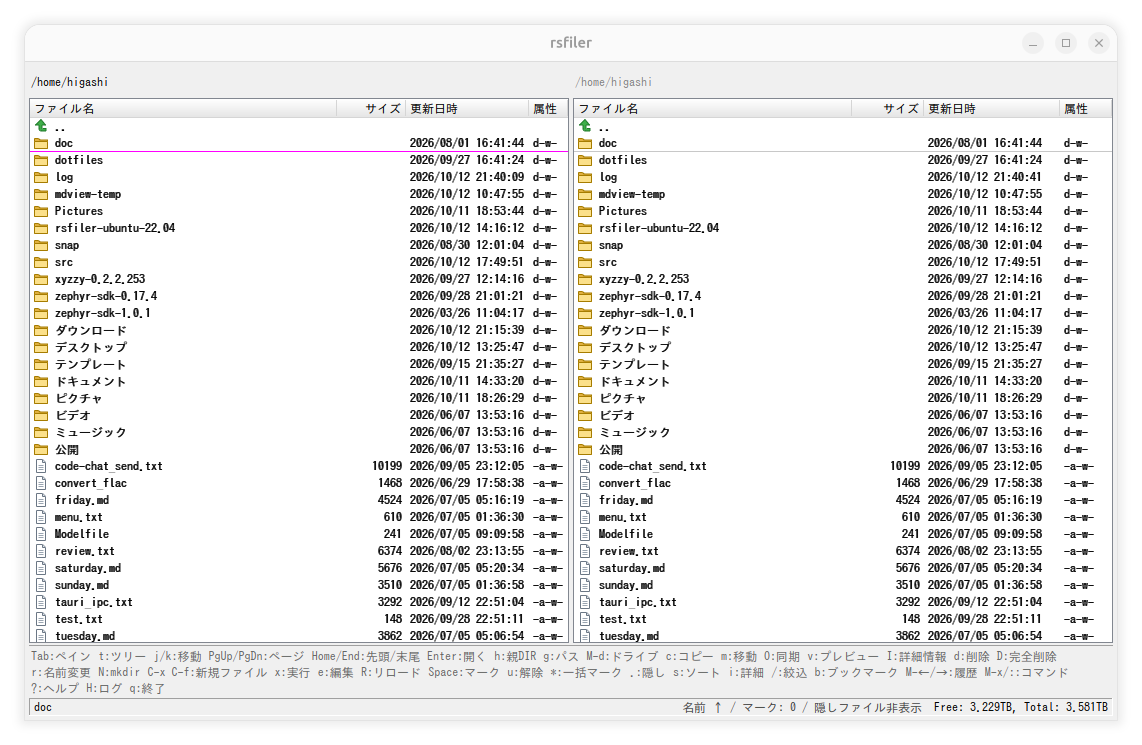
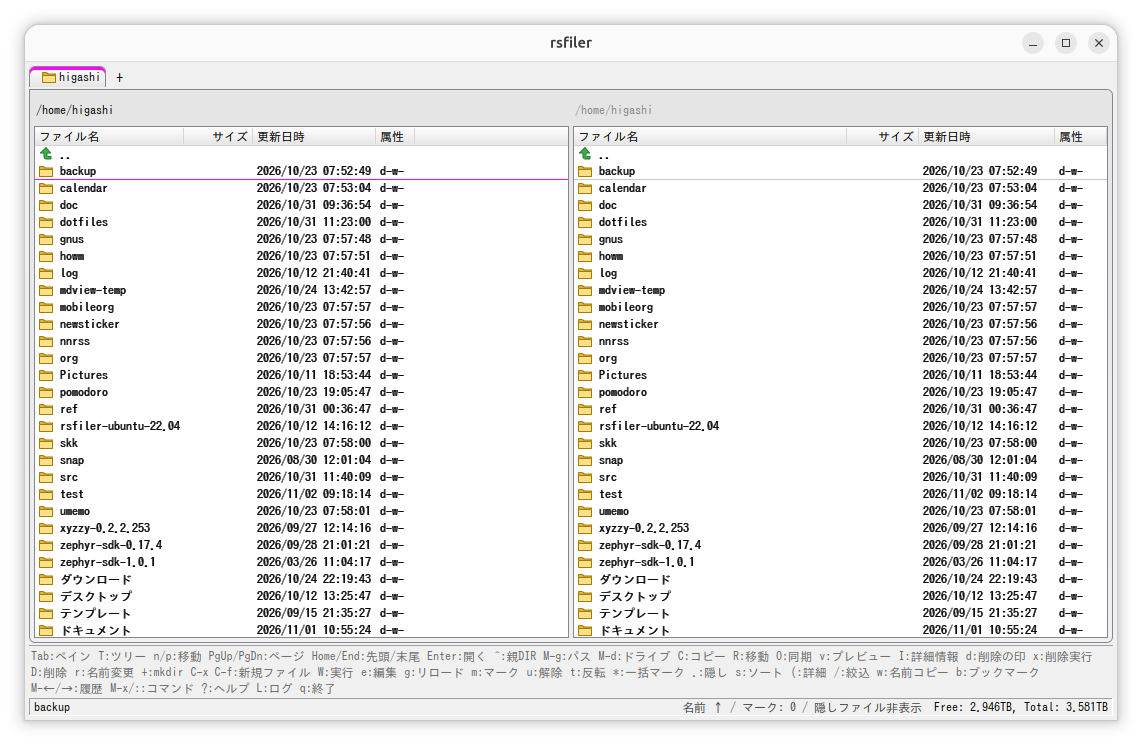
feat: Show the source and destination in the operation log
- Add the source paths (up to 3, then the rest as a count) and the destination to the copy, move, and delete messages and the failure log
- Update the screenshot in README.md

Changed region(s): [[0.0, 0.0617, 0.9807, 0.957], [0.9501, 0.0309, 0.9807, 0.0617], [0.4904, 0.0309, 0.521, 0.0617]]

diff --git a/tests/App.test.tsx b/tests/App.test.tsx
@@ -2541,7 +2541,11 @@ describe("App (コピー・移動・削除の実行)", () => {
         onProgress: expect.anything(),
       }),
     );
-    expect(await screen.findByText("移動しました: 1 件")).toBeInTheDocument();
+    expect(
+      await screen.findByText(
+        "移動しました: 1 件 (元: /mock/home/b.txt → 先: /mock/home/FolderA)",
+      ),
+    ).toBeInTheDocument();
   });
 
   it("正常系: c の完了で通知が表示され, 両ペインが再読み込みされること", async () => {
@@ -2551,7 +2555,11 @@ describe("App (コピー・移動・削除の実行)", () => {
 
     await user.keyboard("c");
 
-    expect(await screen.findByText("コピーしました: 1 件")).toBeInTheDocument();
+    expect(
+      await screen.findByText(
+        "コピーしました: 1 件 (元: /mock/home/FolderA → 先: /mock/home/FolderA)",
+      ),
+    ).toBeInTheDocument();
     expect(mockedInvoke).toHaveBeenCalledWith("read_directory", {
       path: "/mock/home",
     });
@@ -3084,7 +3092,11 @@ describe("App (コピー・移動・削除の実行)", () => {
     await waitFor(() =>
       expect(screen.queryByRole("dialog")).not.toBeInTheDocument(),
     );
-    expect(screen.getByText("コピーしました: 1 件")).toBeInTheDocument();
+    expect(
+      screen.getByText(
+        "コピーしました: 1 件 (元: /mock/home/b.txt → 先: /mock/home/FolderA)",
+      ),
+    ).toBeInTheDocument();
 
     act(() => transfer.emit({ done: 9, total: 10, current: "late" }));
     expect(screen.queryByRole("dialog")).not.toBeInTheDocument();
@@ -3129,7 +3141,9 @@ describe("App (コピー・移動・削除の実行)", () => {
         transfer.resolve({ processed: 0, cancelled: true }),
       );
       expect(
-        await screen.findByText("移動を中断しました (0/1 件処理済み)"),
+        await screen.findByText(
+          "移動を中断しました (0/1 件処理済み) (元: /mock/home/b.txt → 先: /mock/home/FolderA)",
+        ),
       ).toBeInTheDocument();
     },
   );
@@ -3197,7 +3211,9 @@ describe("App (コピー・移動・削除の実行)", () => {
     await user.click(screen.getByRole("button", { name: "中断 (C-g)" }));
     await act(async () => transfer.resolve({ processed: 1, cancelled: false }));
 
-    expect(await screen.findByText("削除しました: 1 件")).toBeInTheDocument();
+    expect(
+      await screen.findByText("削除しました: 1 件 (元: /mock/home/b.txt)"),
+    ).toBeInTheDocument();
   });
 
   it("異常系: 実行中に失敗すると, 進捗ダイアログが閉じてエラーが表示されること", async () => {
@@ -3256,7 +3272,9 @@ describe("App (操作ログ)", () => {
     );
     const user = await renderTwoDirs();
     await user.keyboard("c");
-    await screen.findByText("コピーしました: 1 件");
+    await screen.findByText(
+      "コピーしました: 1 件 (元: /mock/home/FolderA → 先: /mock/home/FolderA)",
+    );
     await user.keyboard("Nx{Enter}");
     await screen.findByText("エラー: 作成できません");
 
@@ -3265,7 +3283,9 @@ describe("App (操作ログ)", () => {
     expect(items).toHaveLength(2);
     expect(items[0]).toHaveTextContent("作成できません");
     expect(items[0]).toHaveAttribute("data-level", "error");
-    expect(items[1]).toHaveTextContent("コピーしました: 1 件");
+    expect(items[1]).toHaveTextContent(
+      "コピーしました: 1 件 (元: /mock/home/FolderA → 先: /mock/home/FolderA)",
+    );
     expect(items[1]).toHaveAttribute("data-level", "info");
     expect(items[1].textContent).toMatch(/^\d{2}:\d{2}:\d{2} /);
 

diff --git a/src/features/operations/hooks/useTransfer.ts b/src/features/operations/hooks/useTransfer.ts
@@ -66,6 +66,23 @@ export interface TransferDeps extends PaneDeps {
   openChoice: (title: string, message: string, choices: ChoiceOption[]) => void;
 }
 
+/** 操作のお知らせに載せる, 元の項目の最大の数 (残りは「ほか N 件」にする). */
+const SHOWN_SOURCES = 3;
+
+/**
+ * 操作の元と先を, お知らせ (操作ログ) に載せる文字列にします.
+ *
+ * @param request - 実行した操作.
+ * @returns `(元: a, b ほか 2 件 → 先: /dest)` の形. 先が無い操作 (削除) では, 元だけ.
+ */
+export function describeTransfer(request: TransferRequest): string {
+  const shown = request.sources.slice(0, SHOWN_SOURCES).join(", ");
+  const rest = request.sources.length - SHOWN_SOURCES;
+  const sources = rest > 0 ? `${shown} ほか ${rest} 件` : shown;
+  const dest = request.dest_dir ? ` → 先: ${request.dest_dir}` : "";
+  return `(元: ${sources}${dest})`;
+}
+
 /**
  * コピー・移動・削除を, 進捗の表示と中断に対応して実行するフック.
  *
@@ -131,13 +148,14 @@ export function useTransfer({
           setTask((t) => (t ? { ...t, ...progress } : t)),
         );
         const count = request.sources.length;
+        const where = describeTransfer(request);
         notify(
           summary.cancelled
-            ? `${label}を中断しました (${summary.processed}/${count} 件処理済み)`
-            : `${label}しました: ${summary.processed} 件`,
+            ? `${label}を中断しました (${summary.processed}/${count} 件処理済み) ${where}`
+            : `${label}しました: ${summary.processed} 件 ${where}`,
         );
       } catch (e) {
-        log.error(`${label} 失敗:`, e);
+        log.error(`${label} 失敗: ${describeTransfer(request)}`, e);
         failure = String(e);
       }
       setTask(null);

diff --git a/tests/features/operations/hooks/useTransfer.test.ts b/tests/features/operations/hooks/useTransfer.test.ts
@@ -1,7 +1,10 @@
 import { act, renderHook, waitFor } from "@testing-library/react";
 import { beforeEach, describe, expect, it, vi } from "vitest";
 import type { FileEntry, PaneState } from "@/features/explorer/types";
-import { useTransfer } from "@/features/operations/hooks/useTransfer";
+import {
+  describeTransfer,
+  useTransfer,
+} from "@/features/operations/hooks/useTransfer";
 import {
   checkConflicts,
   checkNestedConflicts,
@@ -359,5 +362,31 @@ describe("useTransfer", () => {
         updater(pane("/src", files, ["/src/a.txt", "/src/b.txt"])).marks,
       ).toEqual(["/src/b.txt"]);
     });
+  });
+});
+
+describe("describeTransfer", () => {
+  const request = (sources: string[], dest_dir: string | null) => ({
+    kind: "copy" as const,
+    sources,
+    dest_dir,
+    overwrite: false,
+    permanent: false,
+  });
+
+  it("正常系: 元と先が出ること", () => {
+    expect(describeTransfer(request(["/a", "/b"], "/dest"))).toBe(
+      "(元: /a, /b → 先: /dest)",
+    );
+  });
+
+  it("正常系: 元が 4 件以上のときは, 3 件までを出して, 残りは件数にすること", () => {
+    expect(
+      describeTransfer(request(["/a", "/b", "/c", "/d", "/e"], "/x")),
+    ).toBe("(元: /a, /b, /c ほか 2 件 → 先: /x)");
+  });
+
+  it("境界: 先が無い操作 (削除) では, 元だけが出ること", () => {
+    expect(describeTransfer(request(["/a"], null))).toBe("(元: /a)");
   });
 });
